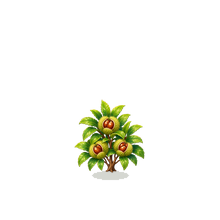
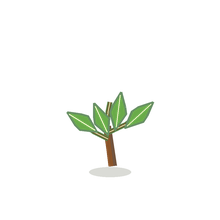
苗更新

Changed region(s): [[0.3, 0.4091, 0.7091, 0.8182]]

diff --git a/index.html b/index.html
@@ -47,7 +47,7 @@
     <meta name="theme-color" content="#557a44" />
     <link rel="manifest" href="./manifest.json" />
     <title>開心農場</title>
-    <link rel="stylesheet" href="./styles.css?v=20260624-claude-387" />
+    <link rel="stylesheet" href="./styles.css?v=20260624-claude-389" />
   </head>
   <body>
     <div class="farm-app">
@@ -598,7 +598,7 @@
           <input class="gm-slider" data-gm-range="xp" type="range" />
         </div>
         <div class="gm-row"><label>天氣</label><span class="gm-weather"><button data-gm-weather="sun" type="button">晴朗</button><button data-gm-weather="breeze" type="button">微風</button><button data-gm-weather="cloud" type="button">多雲</button><button data-gm-weather="rain" type="button">小雨</button><button data-gm-weather="scorch" type="button">烈日</button><button data-gm-weather="storm" type="button">雷雨</button><button data-gm-weather="fog" type="button">起霧</button><button data-gm-weather="snow" type="button">下雪</button><button data-gm-weather="typhoon" type="button">颱風</button></span></div>
-        <div class="gm-row"><label>特殊</label><button id="gmInvOpen" type="button">庫存</button><button id="gmFishOpen" type="button">漁貨</button><button id="gmItemOpen" type="button">道具</button><button id="gmSeedOpen" type="button">種子</button><button id="gmThief" type="button" class="gm-row-right">好友偷菜</button><button id="gmOrderRefresh" type="button">刷新訂單</button></div>
+        <div class="gm-row"><label>特殊</label><button id="gmInvOpen" type="button">庫存</button><button id="gmFishOpen" type="button">漁貨</button><button id="gmItemOpen" type="button">道具</button><button id="gmSeedOpen" type="button">種子</button><button id="gmLearnRecipes" type="button" class="gm-row-right">食譜全學</button><button id="gmThief" type="button">好友偷菜</button><button id="gmOrderRefresh" type="button">刷新訂單</button></div>
         <div class="gm-foot">
           <button id="gmEditConfirm" type="button" class="gm-foot-ok">確定</button>
           <button id="gmEditRevert" type="button" class="gm-foot-undo">回復</button>

diff --git a/game.js b/game.js
@@ -5084,6 +5084,7 @@ function bindStaticEvents() {
     saveState(); render(); toast("訂單已全部刷新。");
   });
   document.querySelector("#gmThief")?.addEventListener("click", gmSpawnThief);
+  document.querySelector("#gmLearnRecipes")?.addEventListener("click", gmLearnAllRecipes);
   makeGmBadgeDraggable();
 
   document.querySelectorAll("[data-panel-target]").forEach((button) => {
@@ -6664,6 +6665,11 @@ function maybeSpawnHazards(now) {
   toast(p.weed ? "🌿 有一塊田長雜草了，生長暫停！用「除蟲/拔草」清除。" : "🐛 有一塊田鬧蟲害了，生長暫停！用「除蟲/拔草」清除。");
 }
 
+function gmLearnAllRecipes() {
+  state.knownRecipes = RECIPES.map(function (r) { return r.id; });
+  saveState();
+  toast("已學會全部 " + RECIPES.length + " 道食譜，快煮可直接做。");
+}
 function gmSpawnThief() {
   if (isGuarded()) { toast("🛡 防盜卡生效中，目前不會被偷菜。"); return; }
   const cand = state.plots
@@ -6807,7 +6813,7 @@ function updateFarmTimers() {
       const suffix = `${plot.crop}-${stage}.png`;
       const cur = img.getAttribute("src") || "";
       if (!cur.endsWith(suffix)) {
-        img.setAttribute("src", `./assets/crops/field/${suffix}?v=20260615-claude-016`);
+        img.setAttribute("src", `./assets/crops/field/${suffix}?v=20260726-claude-388`);
         img.className = `crop-stage-image crop-${plot.crop} crop-stage-${stage}`;
       }
     }
@@ -8235,7 +8241,7 @@ function cropVisual(id, stage) {
 
   // 所有作物都已有田間 PNG（含 GPT 補的 12 種），一律用圖片
   const validStage = stage === "leaf" || stage === "ripe" ? stage : "sprout";
-  return `<img class="crop-stage-image crop-${id} crop-stage-${validStage}" src="./assets/crops/field/${id}-${validStage}.png?v=20260615-claude-016" alt="" />`;
+  return `<img class="crop-stage-image crop-${id} crop-stage-${validStage}" src="./assets/crops/field/${id}-${validStage}.png?v=20260726-claude-388" alt="" />`;
 }
 
 function sproutCropSvg(leaf) {
